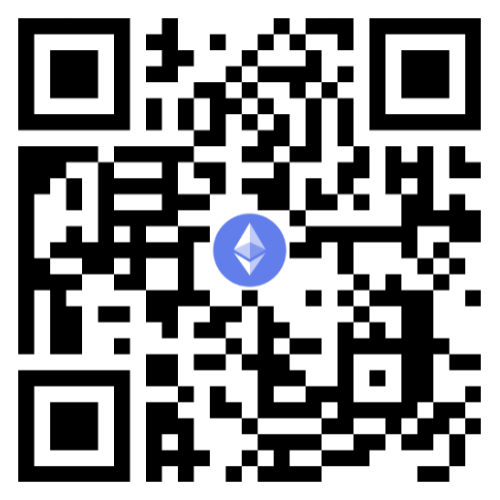
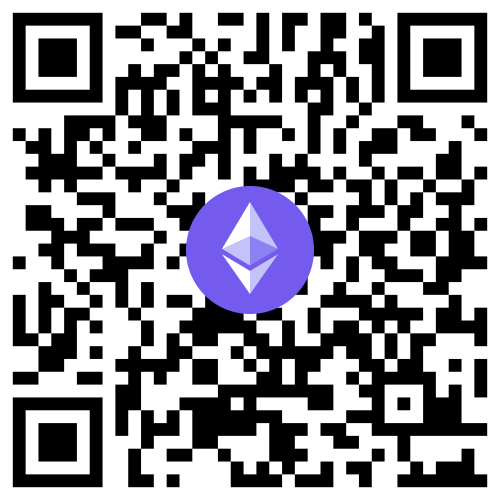
Update crypto images

diff --git a/src/views/crypto.vue b/src/views/crypto.vue
@@ -24,7 +24,7 @@
           {
             name: "USD Coin (USDC)",
             img: "usdc",
-            address: "0xe37Bd63515c2423ef957b81483825F7e7349C690",
+            address: "0x4a31EBD5A93334ba99CAE15dd1411c7a3E0214B6",
             explorerLink: "https://polygonscan.com/address/",
           },
           {
@@ -36,7 +36,7 @@
           {
             name: "Ethereum (ETH)",
             img: "eth",
-            address: "0xCDe3a3DEcE1f80cE6371D4ed2a2D92017A2a624A",
+            address: "0x4a31EBD5A93334ba99CAE15dd1411c7a3E0214B6",
             explorerLink: "https://etherscan.io/address/",
           },
           {
@@ -48,8 +48,26 @@
           {
             name: "Tether (USDT)",
             img: "usdt",
-            address: "0x360a98086a62974F5a7bfF723B685382dece5753",
+            address: "0x4a31EBD5A93334ba99CAE15dd1411c7a3E0214B6",
             explorerLink: "https://www.okx.com/explorer/usdt/address/",
+          },
+          {
+            name: "Solana (SOL)",
+            img: "sol",
+            address: "7JnnjZfcNEoc6h3dRPw8zWFQQGoiMPtpMFNyDq9usPye",
+            explorerLink: "https://solana.fm/address/",
+          },
+          {
+            name: "Dogecoin (DOGE)",
+            img: "doge",
+            address: "DBhD3inJwU17gZo4FTaH7HsCBwe3iW3Fa4",
+            explorerLink: "https://dogechain.info/address/",
+          },
+          {
+            name: "Tron (TRX)",
+            img: "trx",
+            address: "0x4a31EBD5A93334ba99CAE15dd1411c7a3E0214B6",
+            explorerLink: "https://tronscan.org/#/address/",
           },
         ],
       };
